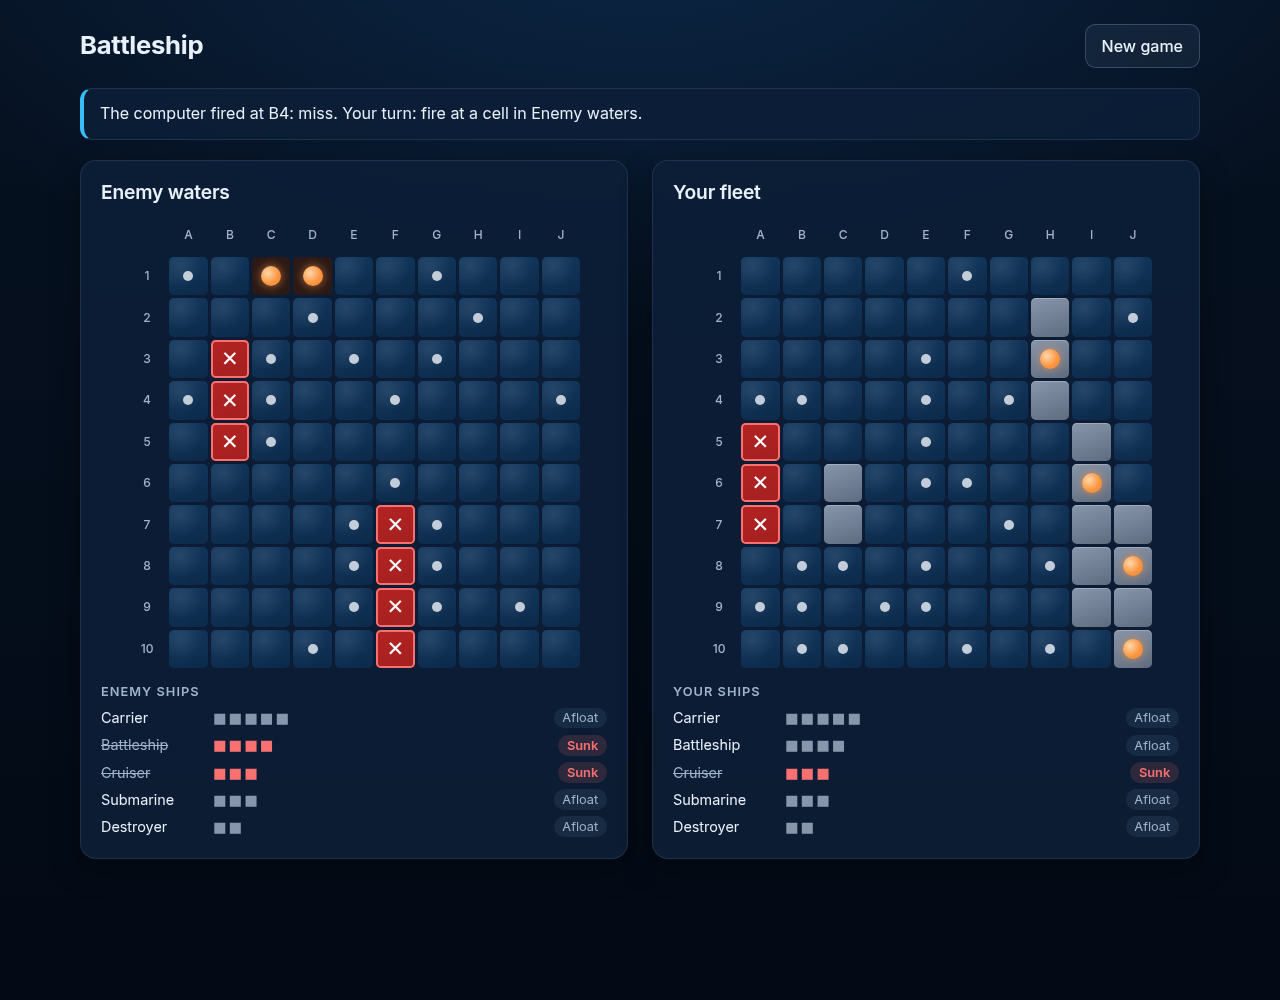
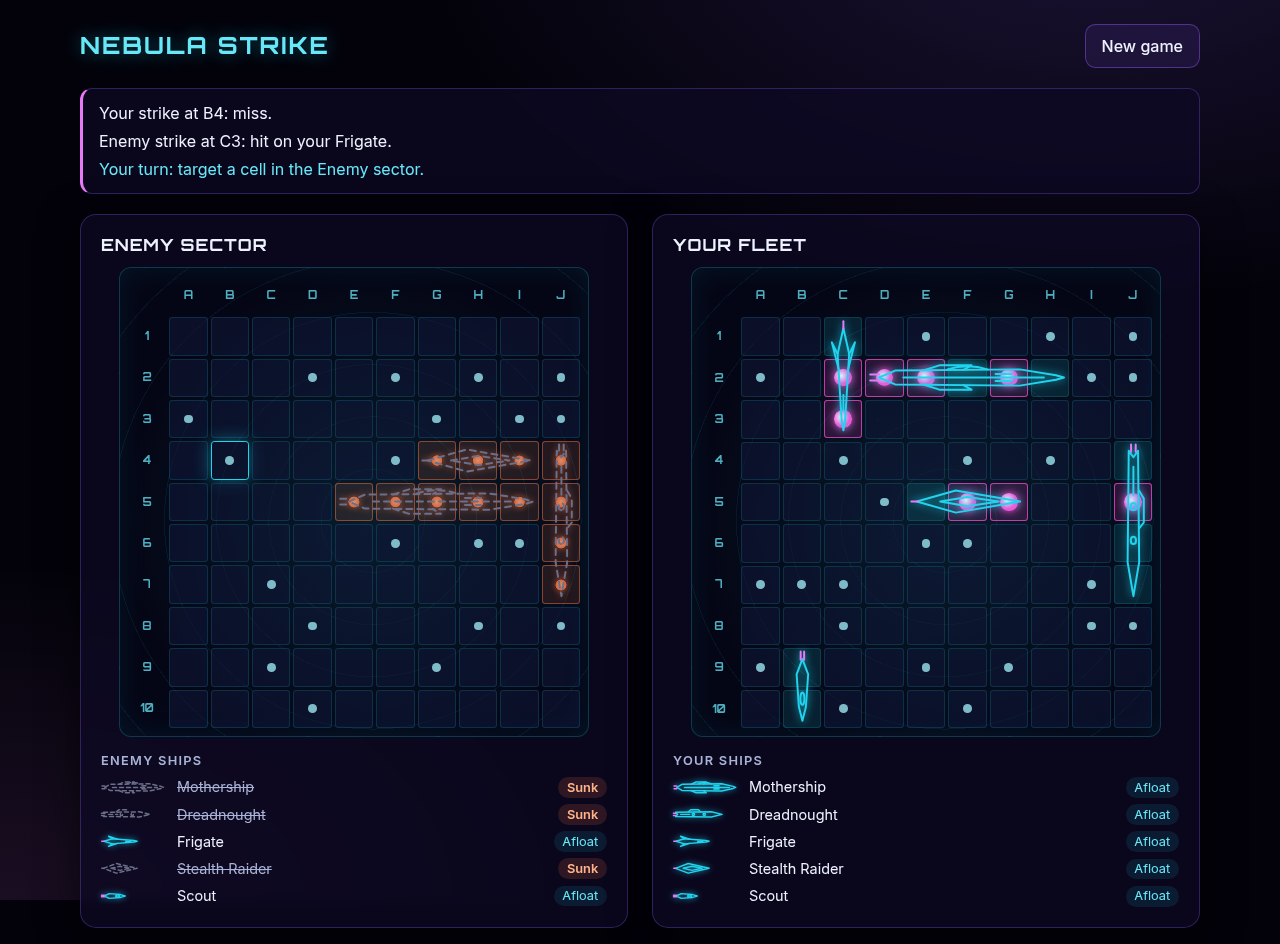
docs: update the README for Nebula Strike

diff --git a/README.md b/README.md
@@ -1,29 +1,32 @@
-# Battleship
+# Nebula Strike
 
-Play the classic board game Battleship against a computer opponent in your browser.
+An intergalactic take on Battleship: find and destroy the computer's fleet before it destroys yours.
 
 [![Test and deploy](https://github.com/allymueller1/battleship/actions/workflows/deploy.yml/badge.svg?branch=main)](https://github.com/allymueller1/battleship/actions/workflows/deploy.yml)
 
 **Play it live: https://allymueller1.github.io/battleship/**
 
-![A game in progress: enemy waters on the left, your fleet on the right](docs/screenshot.png)
+![A game in progress: the enemy sector on the left, your fleet on the right](docs/screenshot.png)
 
 ## How to play
 
-1. Pick a level card — Easy, Normal or Hard — and press **Start**.
-2. Place your fleet: choose a ship, then click or tap a cell. The preview is
+1. Press **Launch** on the title screen (any key or click skips the
+   briefing), then pick a mission card — Cadet, Captain or Admiral — and
+   press **Start mission**.
+2. Deploy your fleet: choose a ship, then click or tap a cell. The preview is
    green where the ship fits and red where it doesn't. **Rotate** (or press
-   **R**) turns the ship, **Randomize** places the whole fleet for you, and
+   **R**) turns the ship, **Randomize** deploys the whole fleet for you, and
    selecting a placed ship picks it back up so you can move it. The
-   **Change** link takes you back to the level cards without losing your
+   **Change** link takes you back to the mission cards without losing your
    ships.
-3. Press **Start battle**, then fire at cells on the **Enemy waters** board.
-   A miss is a dot, a hit is a marker, and a sunk ship turns solid red. The
-   fleet trackers show which of your ships and the enemy's are still afloat.
-   The status area keeps your last shot and the computer's last shot on
-   separate lines.
-4. When a game ends, the end screen shows the result plus each side's shots
-   and hits. **Play again** or **New game** starts over on the same level.
+3. Press **Start battle**, then strike cells on the **Enemy sector** board.
+   A miss is a dot, a hit is a marker, and a destroyed ship glows orange
+   and shows as a wreck. The fleet trackers show which of your ships and the
+   enemy's are still afloat. The status area keeps your last strike and the
+   enemy's last strike on separate lines.
+4. When a battle ends, the end screen shows the result plus each side's
+   strikes and hits. **Play again** or **New game** starts over on the same
+   mission.
 
 Keyboard: **Tab** moves between controls and boards, **arrow keys** move
 within a board (and between level cards), **Enter** or **Space** fires or
@@ -31,11 +34,11 @@ places, and **R** rotates the selected ship on the placement screen.
 
 ## How the computer plays
 
-| Level  | Style                                                          | Mechanism                                                                                                                                 | Average shots to win |
-| ------ | -------------------------------------------------------------- | ----------------------------------------------------------------------------------------------------------------------------------------- | -------------------- |
-| Easy   | Fires at random and finds your ships by luck.                  | Picks a uniformly random untried cell.                                                                                                    | ~96                  |
-| Normal | Plays like a sensible human.                                   | Hunts on a checkerboard pattern; after a hit it probes the neighbours, follows the line until the ship sinks, and handles touching ships. | ~52                  |
-| Hard   | Calculates where your ships most likely are before every shot. | Counts every legal placement of the remaining ships, weights placements through unresolved hits, and fires at the densest cell.           | ~43                  |
+| Level            | Style                                                            | Mechanism                                                                                                                                 | Average shots to win |
+| ---------------- | ---------------------------------------------------------------- | ----------------------------------------------------------------------------------------------------------------------------------------- | -------------------- |
+| Cadet (Easy)     | Fires at random and finds you by luck.                           | Picks a uniformly random untried cell.                                                                                                    | ~96                  |
+| Captain (Normal) | Sweeps the sector, then hunts down any ship it hits.             | Hunts on a checkerboard pattern; after a hit it probes the neighbours, follows the line until the ship sinks, and handles touching ships. | ~52                  |
+| Admiral (Hard)   | Calculates where your ships most likely are before every strike. | Counts every legal placement of the remaining ships, weights placements through unresolved hits, and fires at the densest cell.           | ~43                  |
 
 Averages measured over 200 simulated games per level. No level can see your
 ships — each only knows its own hits, misses and sunk ships — and none ever
@@ -48,7 +51,7 @@ fires at the same cell twice.
 - Vitest with v8 coverage, 90% thresholds on the game logic and pure UI modules (see `vite.config.ts`)
 - ESLint + Prettier
 - GitHub Actions + GitHub Pages
-- Inter, self-hosted via `@fontsource-variable/inter`
+- Inter and Orbitron, self-hosted via `@fontsource-variable/inter` and `@fontsource/orbitron`
 - No backend — it's a static site
 
 ## Run it locally
@@ -102,9 +105,13 @@ The layout separates pure game logic from DOM rendering:
 - `src/ui/boardView.ts` — accessible, keyboard-navigable board grid
 - `src/ui/fleetTracker.ts` — afloat/sunk list per side
 - `src/ui/interactivity.ts` — decides which board accepts input in each phase
-- `src/ui/levels.ts` — level names, descriptions and average shots for the intro cards
+- `src/ui/levels.ts` — mission names, descriptions and average shots for the mission cards
 - `src/ui/placement.ts` — pure placement state
 - `src/ui/messages.ts` — status and shot message text
+- `src/ui/theme.ts` — the space-themed display name for each ship type
+- `src/ui/titleScreen.ts` — the title screen and its skippable typed briefing
+- `src/ui/effects.ts` — which cells get strike effects, and the effect timings
+- `src/ui/shipArt.ts` — the SVG art for each ship type
 
 All of `src/game/` is pure, immutable logic tested with Vitest; tests live
 next to their modules as `<module>.test.ts`. `DEBUGGING.md` is a log of
